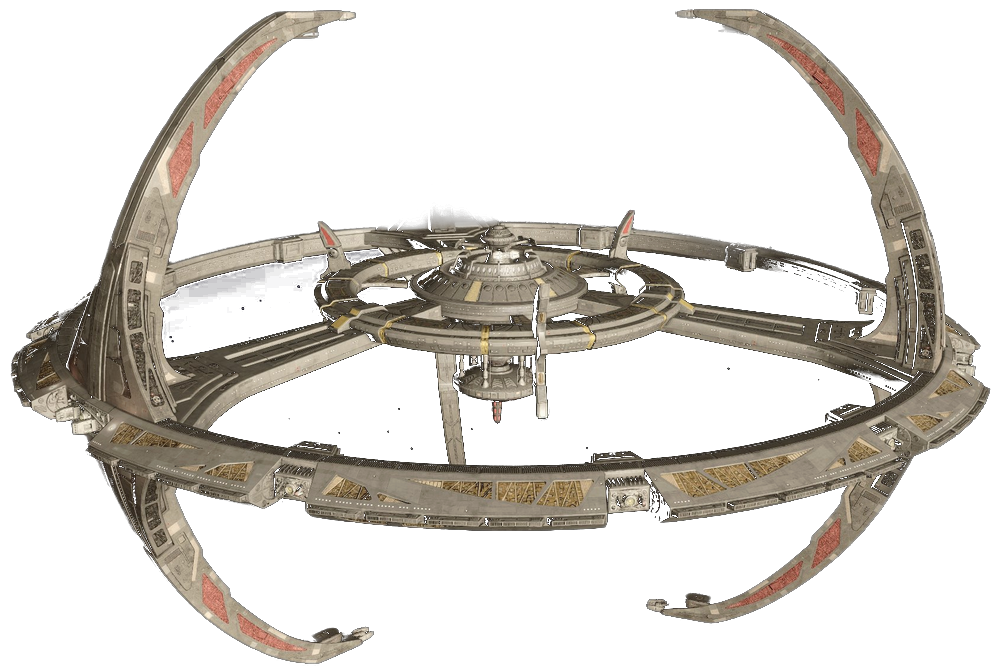
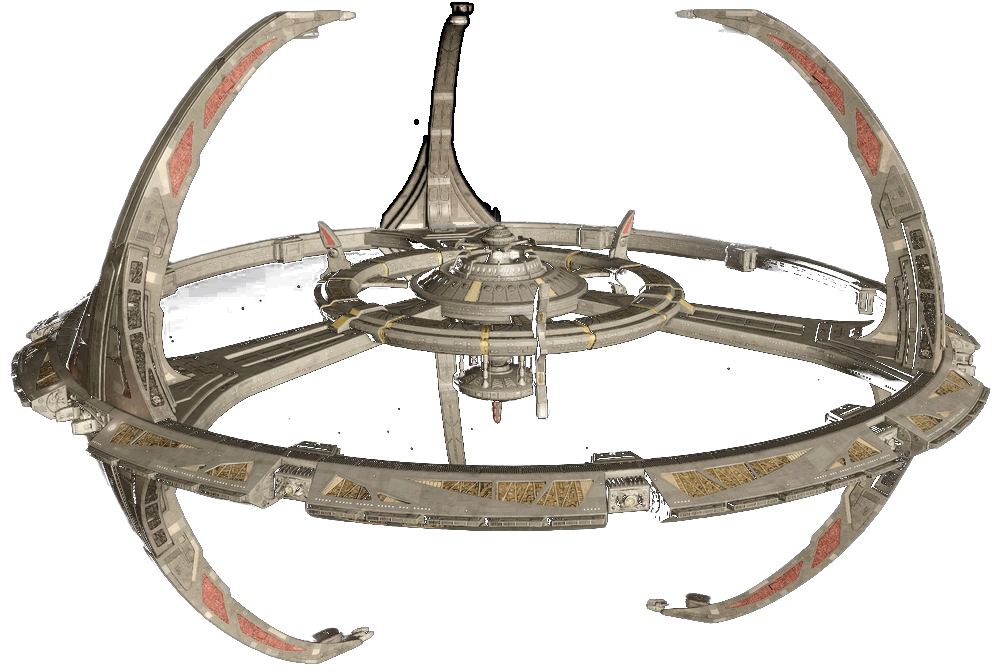
v4.7 DS9 arch fix: transplanted lit rear arch onto ds9_stn.png (Jason-approved staged composite); 1000x672 unchanged, Empok Nor and ds92_stn untouched; footer v4.7, sw stfc-v4.7

Changed region(s): [[0.372, 0.0, 0.496, 0.3438], [0.341, 0.375, 0.372, 0.4062]]

diff --git a/index.html b/index.html
@@ -16041,7 +16041,7 @@ window.onload=function(){
 <aside id="menuDrawer">
   <div id="drawerHead"><h2>Menu</h2><button id="drawerClose" onclick="closeTabMenu()" aria-label="Close menu">&times;</button></div>
   <div id="menuList"></div>
-  <div style="text-align:center;color:#5a6b7d;font-size:11px;padding:14px 0 8px;opacity:.7;">v4.6 — What-If Uniforms</div>
+  <div style="text-align:center;color:#5a6b7d;font-size:11px;padding:14px 0 8px;opacity:.7;">v4.7 — DS9 arch fix</div>
   <div style="text-align:center;color:#5a6b7d;font-size:11px;padding:0 0 10px;opacity:.7;">Ship &amp; shuttlecraft profile artwork: <a href="https://www.ex-astris-scientia.org/fleet-charts.htm" target="_blank" style="color:#7d92ad;text-decoration:none;">Ex Astris Scientia</a></div>
 </aside>
 <script>if("serviceWorker" in navigator){navigator.serviceWorker.register("sw.js").then(function(r){r.addEventListener("updatefound",function(){var w=r.installing;w.addEventListener("statechange",function(){if(w.state==="activated"&&navigator.serviceWorker.controller){try{showUpdateBanner();}catch(e){}}});});});}</script>

diff --git a/sw.js b/sw.js
@@ -1,4 +1,4 @@
-const C = 'stfc-v4.6';
+const C = 'stfc-v4.7';
 self.addEventListener('install', e => {
   e.waitUntil(caches.open(C).then(c => c.addAll(['./', 'index.html', 'manifest.json'])).then(() => self.skipWaiting()));
 });
